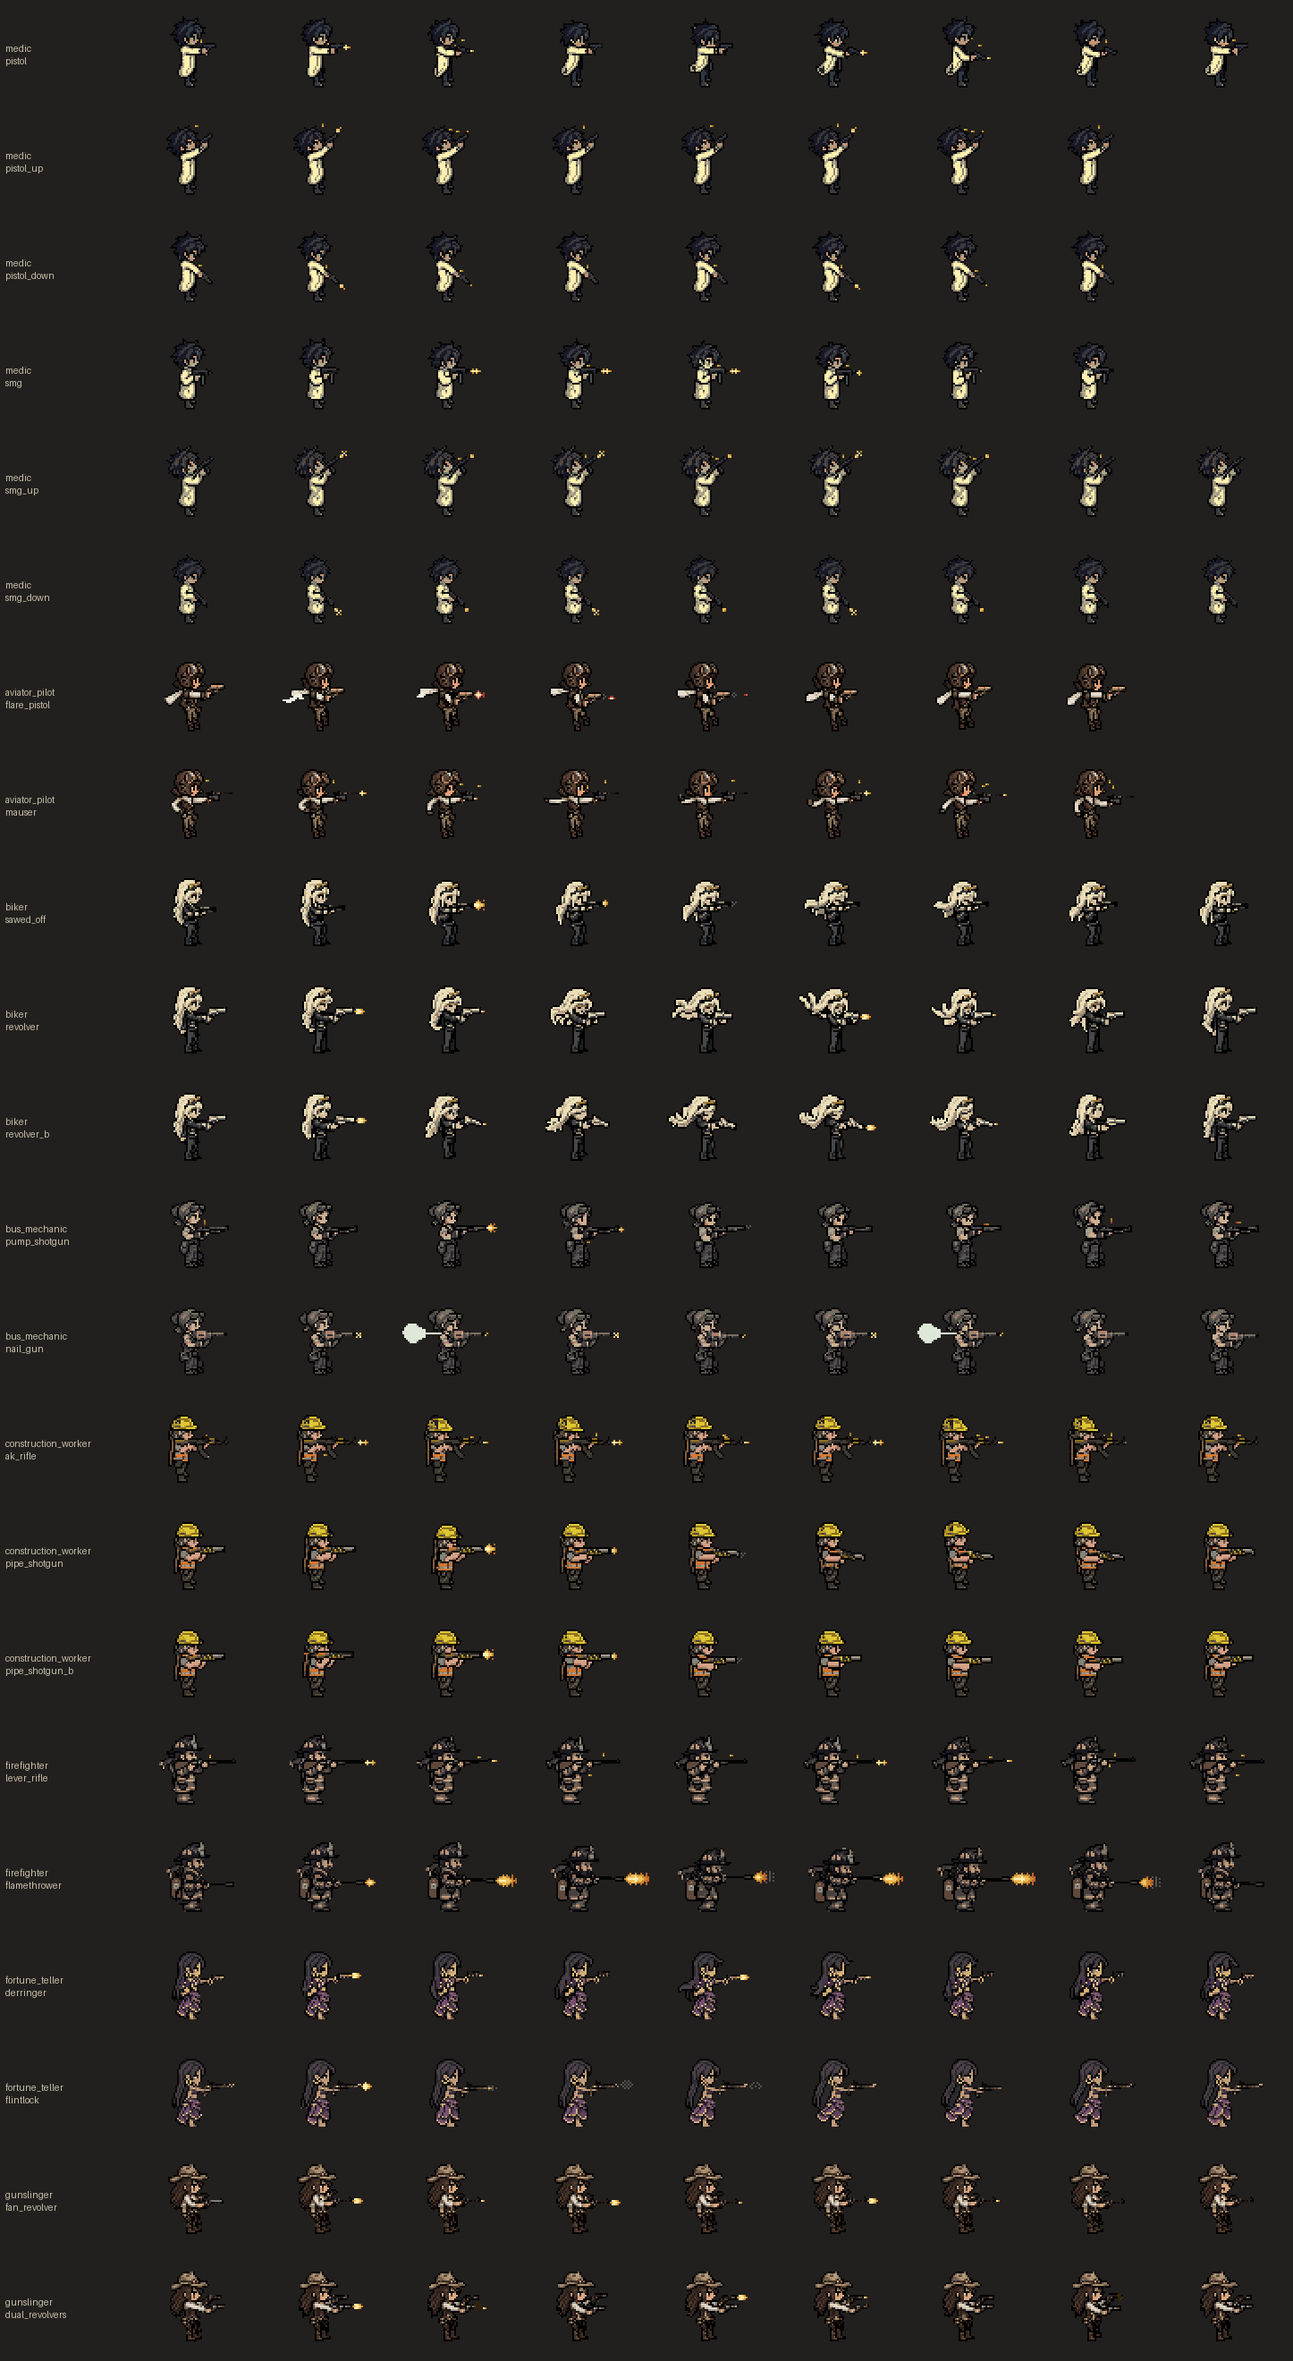
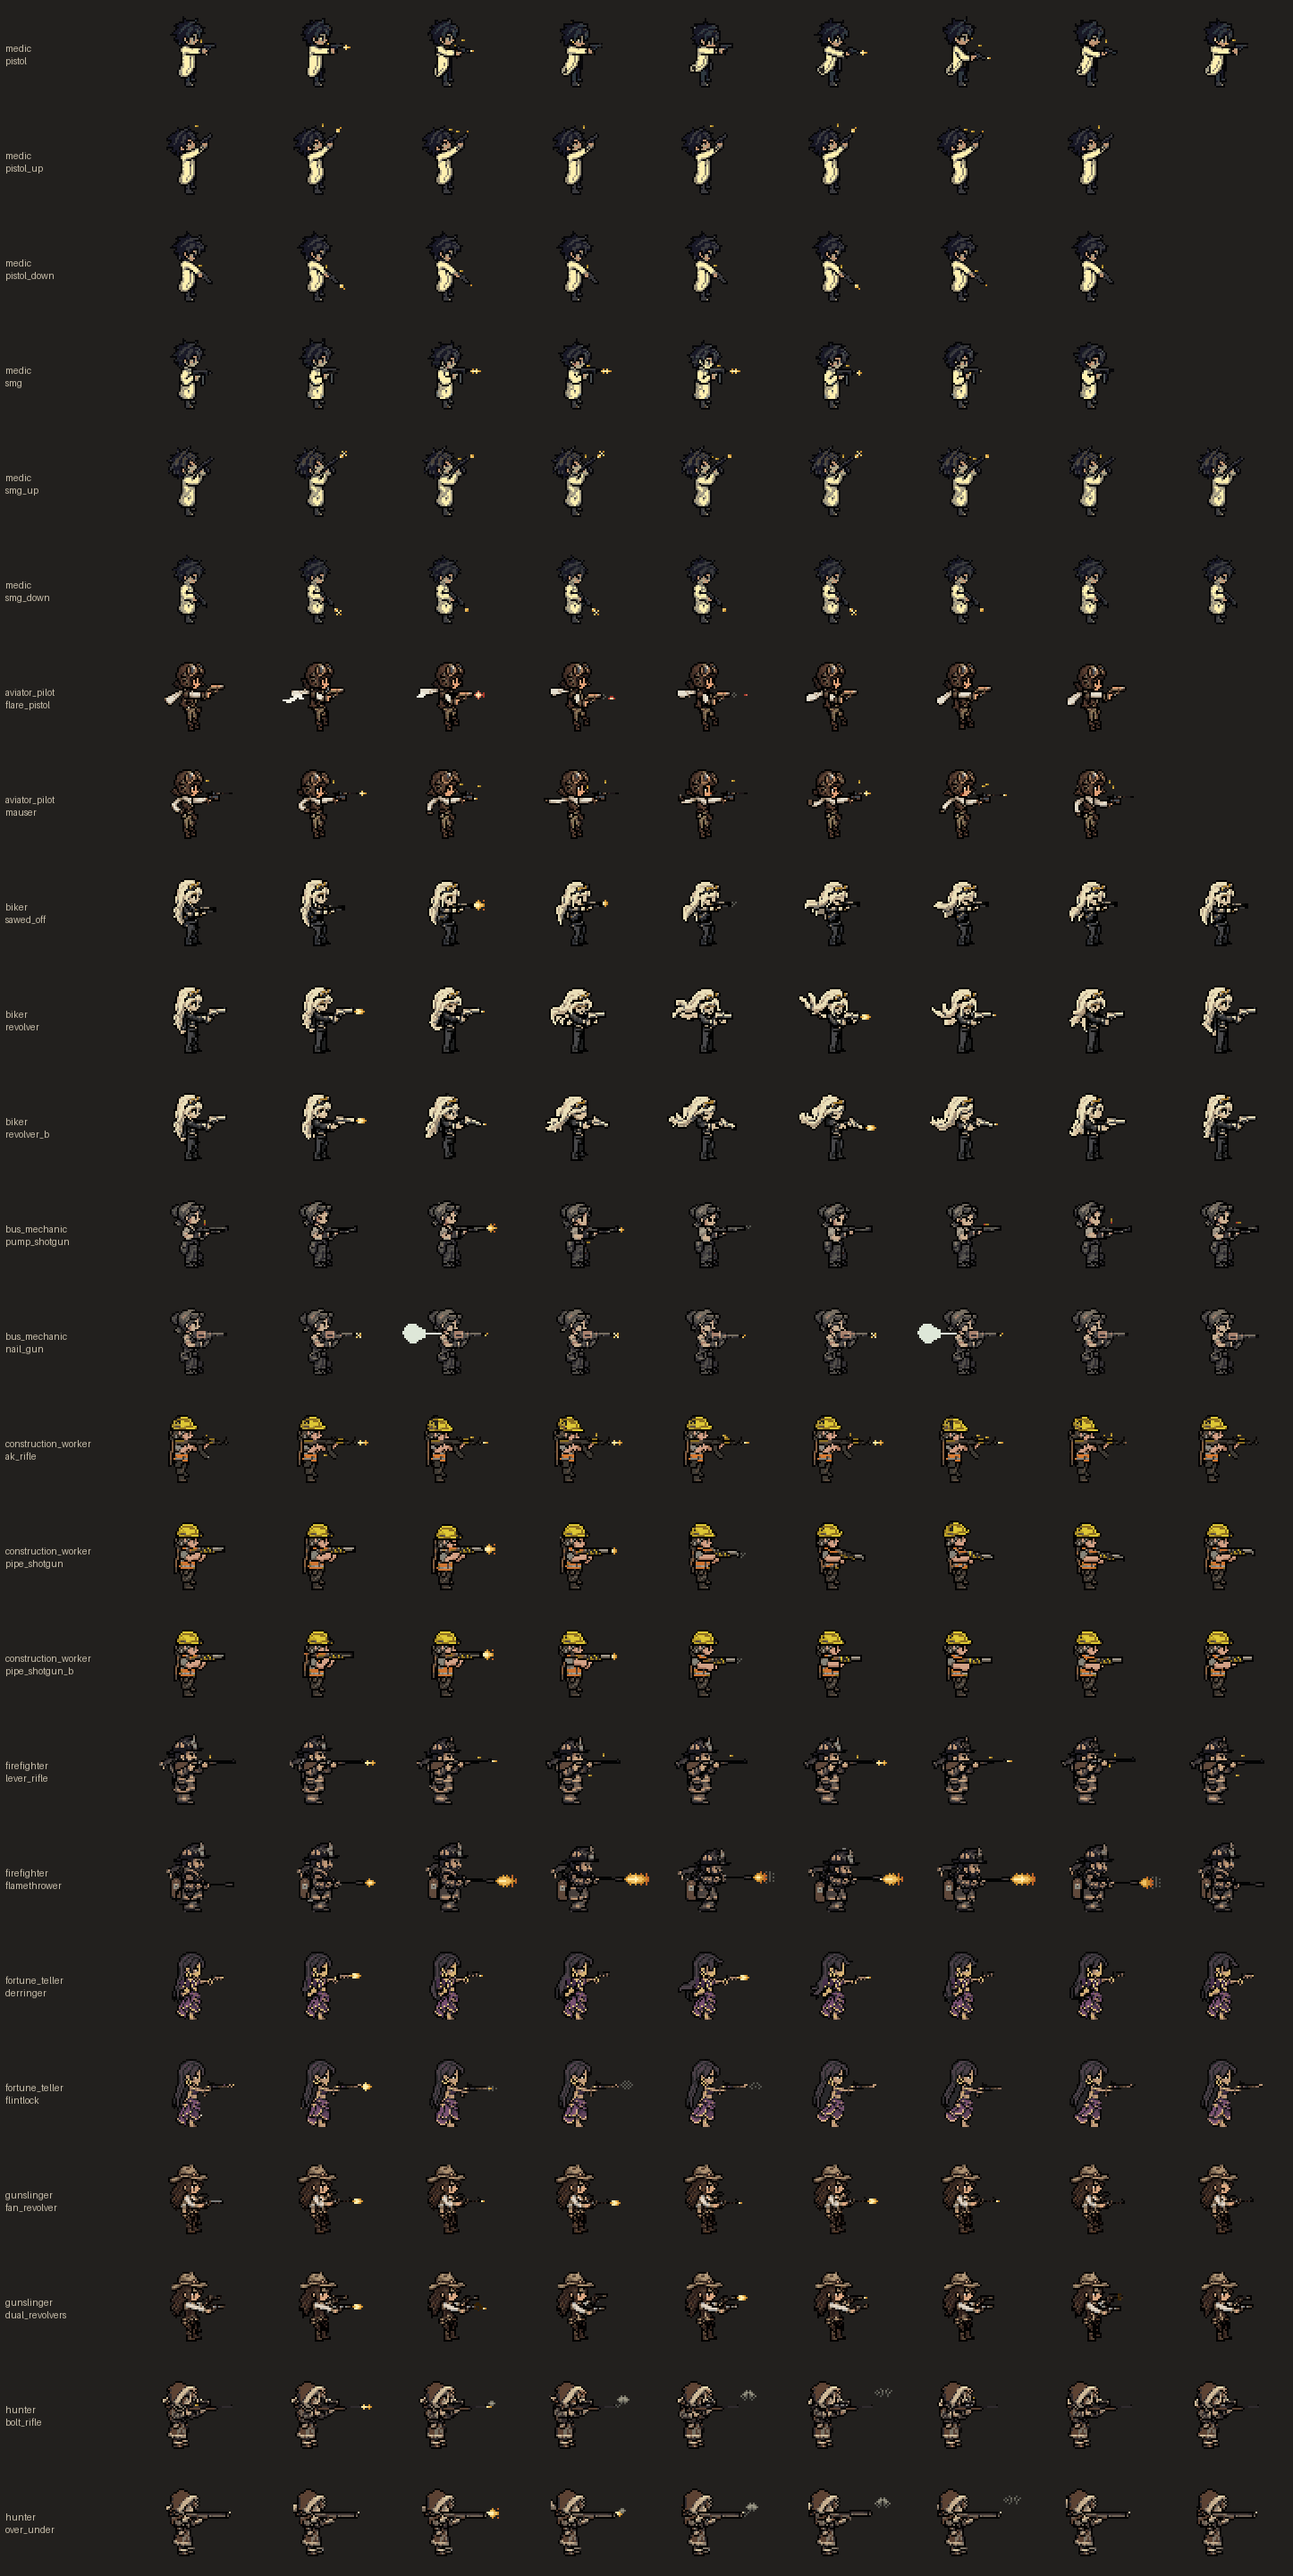
MV-594: hunter gun animations (bolt rifle, over-under) with muzzle smoke
Claude-Session: https://claude.ai/code/session_01JAwuZXuYevryVVgRcX7H5x

diff --git a/tools/art/crew_gun/fx.py b/tools/art/crew_gun/fx.py
@@ -117,6 +117,22 @@ def stamp(rows, key):
     return out
 K = {'w': 'lamp2', 'y': 'lamp1', 'o': 'lamp0', 'r': 'dusk3', 'g': 'gray4'}
 FK = {'w': 'lamp2', 'o': 'red4', 'r': 'red3', 'g': 'gray4'}
+SK = {'g': 'gray4', 'h': 'gray5', 'l': 'gray6'}
+# rising smoke after a shot: puffs grow, lift and thin out (offsets are from the muzzle, drawn level-relative)
+SMOKE = [stamp(['.hh.', 'hllh', '.hh.'], SK),
+         stamp(['..h.h..', '.hlllh.', 'hllhllh', '.hhghh.', '..g.g..'], SK),
+         stamp(['...h.h...', '..hlhlh..', '.hlh.hlh.', 'h.hg.gh.h', '.g.g.g.g.', '..g...g..'], SK),
+         stamp(['...g...g..', '.g..h.h..g', 'g.h.g.g.h.', '.g..g..g..', '...g...g..'], SK)]
+
+def smoky(preset, lift=2):
+    """same gun with a lingering smoke cloud added after the flash"""
+    g = dict(GUNS[preset]); fl = list(g['flash'])
+    while len(fl) < 1 + len(SMOKE): fl.append([])
+    for k, st in enumerate(SMOKE):
+        fl[1 + k] = fl[1 + k] + [(dx + 1, dy - lift * (k + 1), c) for dx, dy, c in st]
+    g['flash'] = fl
+    return g
+
 GUNS = {
   'pistol': dict(flash=[stamp(['.y..', 'wwyo', '.y..'], K), stamp(['wo'], K)],
                  casing=[('yellow3', 'yellow2')], eject_back=4, vx=-1.0, vy=-3.0, size=(2, 1)),
@@ -149,6 +165,9 @@ GUNS = {
                        stamp(['.g.......', 'g.g....ro', '.g......'], FK)],
                 casing=[], eject_back=0, vx=0, vy=0, size=(2, 1)),
 }
+
+GUNS['boltrifle_smoke'] = smoky('boltrifle')
+GUNS['sawnoff_smoke'] = smoky('sawnoff')
 
 def render(frames, gun, shots, aim, floor):
     g = GUNS[gun]; n = len(frames); d = AIM[aim]

diff --git a/tools/art/crew_gun/export.py b/tools/art/crew_gun/export.py
@@ -28,6 +28,8 @@ CLIPS = [
  ('fortune_teller', 'flintlock', 'fortune_teller/fx_B', 'flintlock', [1], 10, 'level', 'antique flintlock pistol, smoke'),
  ('gunslinger', 'fan_revolver', 'gunslinger/fx_A', 'revolver', [1, 3, 5], 10, 'level', 'cowboy revolver fired from the hip, fanning the hammer'),
  ('gunslinger', 'dual_revolvers', 'gunslinger/fx_B', 'revolver', [1, '4b'], 10, 'level', 'two revolvers, alternating'),
+ ('hunter', 'bolt_rifle', 'hunter/fx_A', 'boltrifle_smoke', [1], 10, 'level', 'scoped bolt-action rifle, bolt cycle ejects a brass casing, muzzle smoke'),
+ ('hunter', 'over_under', 'hunter/fx_B', 'sawnoff_smoke', [2], 10, 'level', 'over-and-under hunting shotgun, big smoke puff'),
 ]
 man = json.load(open(REPO + 'manifest.json'))
 entry = {'how': 'MV-594. 1) edit_image_pro_flash on the character work/0 frame (60x60) -> holding-the-gun pose (5 gens). '

diff --git a/docs/art/crew-style-reference.md b/docs/art/crew-style-reference.md
@@ -173,6 +173,7 @@ gun, fps, shot frames and a muzzle point per frame in the manifest `gun_animatio
 | firefighter | `lever_rifle`, `flamethrower` |
 | fortune_teller | `derringer`, `flintlock` |
 | gunslinger | `fan_revolver`, `dual_revolvers` |
+| hunter | `bolt_rifle`, `over_under` |
 
 ## Cast portraits
 
